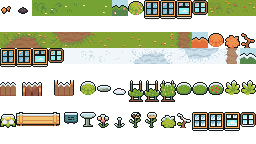
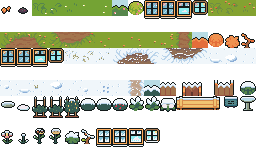
Draw a leak as puddles under one drip, and winter as snow
A wet room has a few small puddles under a damp mark on the north wall, with one drop falling there, in place of blue bars and drops across the whole floor. The winter garden is redrawn: drifts, tufts and prints on the snow, bare frosted beds, a pale path, thicker caps on fence and bushes; by night the open snow is lit dim blue-white. A leak is remembered at once and its want outweighs anything not begun.

diff --git a/view/src/px/still.ts b/view/src/px/still.ts
@@ -52,6 +52,10 @@ export function drawnOf(m: Made): Drawn {
 const PLAIN = { floor: 0xd8c39a, wall: 0xa98f6f, trim: 0x6d5a48 };
 const SIZES = [0.75, 1, 1.25];
 const counts = new Map<string, Texture>();   // the small numbers on chests and crates, made once each
+/** Water lying on a floor, typed: # its darker rim, o the water, + where the light catches it. A large one, a middling one, a small one. */
+const POOLS = [["...#####......", ".##ooooo###...", "#oo++ooooooo#.", "#o+ooooooooo##", ".#oooooooo+oo#", "..##ooooooo##.", "....######...."],
+               ["..####...", ".#o++o##.", "#ooooooo#", ".##ooo+#.", "...###..."], [".##..", "#+o#.", ".#oo#", "..##."]];
+const WATER: Record<string, number> = { "#": 0x3f78a8, o: 0x79b8ce, "+": 0xe4f4fa };
 /** The colour a named place in a room is tinted (SPEC-v3.3 §2.3): the same for the same name, in every room. */
 export const areaColor = (name: string) => hslInt(seeded(name)() * 360, 0.7, 0.62);
 
@@ -73,6 +77,7 @@ export class Still {
   band: Record<string, Rect> = { north: { x: OX, y: 2, w: FX * TILE, h: OY - 5 }, south: { x: OX, y: OY + FY * TILE + 2, w: FX * TILE, h: TILE - 4 },
                                  west: { x: 2, y: OY, w: OX - 4, h: FY * TILE }, east: { x: OX + FX * TILE + 2, y: OY, w: OX - 4, h: FY * TILE } };
   sun: number[] | null = null;  // the attic's shaft of sun, if there is one: where it falls
+  drip: number[] | null = null; // a leak's one drip, if water is coming in: its x, where it leaves the top of the wall, where it lands
   /** What the room's floor and walls actually paint, as one picture: light and dark fall only there, never on the page beyond the walls. */
   shape: HTMLCanvasElement | null = null;
   /** The part of the canvas the room is drawn in (the art may leave a margin): lettering stays inside it. */
@@ -94,7 +99,7 @@ export class Still {
     this.paint(room, false);   // SPEC-v3.5 §4.2: paint on the wall and the floor, under everything that stands there
     const blocked: Tile[] = [...(L.blocked ?? [])];
     for (const d of L.decor ?? []) this.decor(d.sprite, d.at, d.layer);
-    this.puddles(room);
+    this.puddles(snap, room, L);
     this.places(room);
     for (const [dir, to] of Object.entries(room.doors)) this.door(snap, room, dir, to, L.doors);
 
@@ -264,17 +269,25 @@ export class Still {
     this.scenery.push({ sprite: named, rect: { x: s.x, y: s.y, w: sz.w, h: sz.h } });
   }
 
-  /** Water standing on the floor after a leak. */
-  private puddles(room: RoomV) {
+  /** Water on the floor after a leak: a few small puddles gathered under the one place it drips from, and a damp mark
+   *  down the wall above them where it comes in. The same for the same room. */
+  private puddles(snap: Snap, room: RoomV, L: Layout) {
     if (!room.wet) return;
-    const g = new Graphics(), r = seeded(room.id + "wet");
-    for (let i = 0; i < 7; i++) {
-      const [x, y, w] = [OX + 6 + Math.floor(r() * (FX * TILE - 40)), OY + 8 + Math.floor(r() * (FY * TILE - 20)), 10 + Math.floor(r() * 16)];
-      g.rect(x + 2, y, w - 4, 1).rect(x, y + 1, w, 3).rect(x + 3, y + 4, w - 5, 1).fill({ color: 0x4f9fe0, alpha: 0.72 });
-      g.rect(x + 1, y + 4, 2, 1).rect(x + 3, y + 5, w - 5, 1).fill({ color: 0x2f6fb0, alpha: 0.6 });   // its darker near edge
-      g.rect(x + 3, y + 1, Math.floor(w / 3), 1).rect(x + w - 5, y + 2, 2, 1).fill({ color: 0xffffff, alpha: 0.8 });
+    const r = seeded(room.id + "wet"), n = (k: number) => Math.floor(r() * k), busy = [...(L.blocked ?? []), ...Object.values(L.fixtures ?? {}).filter((f) => !f.wall).map((f) => f.pos), ...Object.values(snap.door_tiles)];
+    let at: Tile = [4, 1];
+    for (let i = 0; i < 12; i++) {   // by the north wall, where nothing of the room's own stands and no door is
+      const t: Tile = [2 + n(8), 1];
+      if (!busy.some((b) => Math.abs(b[0] - t[0]) <= 1 && Math.abs(b[1] - t[1]) <= 1)) { at = t; break; }
+    }
+    const [x, y] = [corner(at)[0] + 8, corner(at)[1] + 8], side = r() < 0.5 ? -1 : 1, g = new Graphics(), top = this.band.north.y + 1;
+    const pools = [[0, 0, 0], [1, side * (12 + n(4)), 5 + n(3)], [2, -side * (9 + n(4)), 4 + n(4)], [2, side * (2 + n(5)), -7 - n(2)]];   // which, and how far from the drip
+    for (const [ch, color] of Object.entries(WATER)) {
+      for (const [k, dx, dy] of pools) POOLS[k].forEach((row, j) => [...row].forEach((c, i) => c === ch && g.rect(x + dx - (row.length >> 1) + (side < 0 ? row.length - 1 - i : i), y + dy - (POOLS[k].length >> 1) + j, 1, 1)));
+      g.fill({ color, alpha: 0.92 });
     }
     this.flat.addChild(g);
+    this.ground.addChild(new Graphics().rect(x - 2, top, 5, 2).rect(x - 1, top + 2, 3, 1).rect(x, top + 3, 1, OY - top - 5).fill({ color: 0x2d4f78, alpha: 0.4 }));
+    this.drip = [x, top + 3, y];
   }
 
   /** The places a room has grown (SPEC-v3.3 §2.3): a faint tint on their tiles, with a line round the whole of each. */

diff --git a/view/src/room.ts b/view/src/room.ts
@@ -15,7 +15,7 @@ import { canvasOf, has, kind, layout, loadArt, pick, size, tex } from "./px/asse
 import type { Layout } from "./px/assets";
 import { Labels } from "./px/bubbles";
 import type { Tag, Who } from "./px/bubbles";
-import { Fx } from "./px/fx";
+import { Fx, fxTexture } from "./px/fx";
 import { loadSeasons } from "./px/season";
 import { clamp, FX, FY, H, idx, inside, OX, OY, onFloor, tileAt, TILE, W } from "./px/geom";
 import { Marks } from "./px/marks";
@@ -575,7 +575,10 @@ export class Room {
     }
     if (now > n.drip && (room.wet || room.cold || (still.sun && snap.clock.phase !== "night"))) {
       n.drip = now + 240;
-      if (room.wet && Math.random() < 0.5) fx.spawn("drop", OX + Math.random() * FX * TILE, OY - 4, { vy: 60, g: 160, life: 500 + Math.random() * 500 });
+      if (room.wet && still.drip && Math.random() < 0.2) {   // a leak drips in one place: a drop down from the top of the wall, a ring where it lands in the puddle
+        const [x, from, to] = still.drip;
+        fx.fly(fxTexture("drop"), [x, from], [x, to], 480, 1, () => fx.spawn("rain.splash", x, to, { life: 340, tint: 0xcfeaf6 }));
+      }
       if (room.cold) fx.spawn("speck", OX, OY + Math.random() * FY * TILE, { vx: 34, life: 3000, sway: 2, tint: 0xdcecff, alpha: 0.7 });   // a draught: pale wisps crossing the floor
       if (still.sun && snap.clock.phase !== "night" && Math.random() < 0.4) fx.spawn("speck", still.sun[0] + (Math.random() - 0.5) * 24, still.sun[1] + (Math.random() - 0.5) * 16, { vy: -3, life: 2600, sway: 2, tint: 0xfff2c0, alpha: 0.7 });
     }

diff --git a/view/src/px/weather.ts b/view/src/px/weather.ts
@@ -95,6 +95,7 @@ export class Light {
     if (!night) a = mul(a, WEATHER[env.weather] ?? WHITE);
     if (!night && env.day && !env.lit) a = mix(a, DEEP, Math.min(1, env.day) * 0.6);   // a room with little daylight is dim by day too, unless a light is on
     a = mul(a, SEASON[env.season] ?? WHITE);
+    if (night && env.sky === "open" && env.season === "winter") a = mix(a, [180, 215, 255], 0.4);   // snow under the open sky gives the moon back: dim blue-white, its drifts still to be seen, never a flat dark wash
     if (!env.power) a = night || dusk ? mix(a, [8, 10, 34], 0.5) : mul(a, [226, 226, 238]);
     else if (env.lit && (night || dusk)) a = mix(a, [255, 236, 200], 0.14);
     if (env.cold) a = mul(a, [224, 238, 255]);

diff --git a/view/assets/own/src/seasons.py b/view/assets/own/src/seasons.py
@@ -15,7 +15,9 @@ from build import ASSETS, Sheet, pic, rgba
 
 P = lambda ch: rgba(art.PAL[ch])
 OUT = P("#")
-SNOW, SNOW_SHADE, ICE = (240, 246, 250, 255), (201, 222, 233, 255), P("l")
+SNOW, SNOW_SHADE, SNOW_DEEP, ICE = (240, 246, 250, 255), (188, 213, 235, 255), (140, 174, 214, 255), P("l")
+TUFT = [(150, 146, 104, 255), (186, 180, 138, 255)]       # dry grass standing through the snow, dark and light
+EVERGREEN = [P("s"), P("s"), P("g")]                      # the green of a bush in winter, dark to light
 RUST = [P("B"), P("r"), P("R"), P("q")]                   # the green of a bush gone to autumn, dark to light
 LITTER = [P("q"), P("q"), P("y"), P("R")]                 # leaves lying on the grass
 PINK, PINK_DARK, WHITE, YOLK = P("p"), P("X"), P("w"), P("Y")
@@ -69,24 +71,58 @@ def tones(im, test):
     return sorted({round(hsv(im.getpixel((x, y)))[2], 2) for y in range(im.size[1]) for x in range(im.size[0]) if test(im.getpixel((x, y)))})
 
 
-def snowed(im, name, trodden=False):
-    """Ground under snow: everything green is snow (its darker blades the snow's own shadows, thinned out). Dug earth
-    is a hollow in it, in the snow's shadow, its furrows a little darker; a `trodden` path stays bare, and frosted."""
+# What lies on open snow, typed: w where the light catches a crest, s its shadow, d the deep of the shadow, t and T dry
+# grass. Shadows fall down and to the right, as they do under everything else in the pack.
+ON_SNOW = {"ripple": ["..wwwwwww...", "ss.......ss.", ".sssssssss.s", "...sdddds..."],
+           "drift": ["...wwwwww...", ".wwwwwwwwws.", "wwwwwwwwwwss", ".wwwwwwwwssd", "..sswwwsssdd", "...sssssddd.", ".....dddd..."],
+           "bump": [".www..", "w...s.", "..ssd.", ".sdd.."],
+           "tuft": ["T..t.", ".t.T.", ".tTt.", ".dss."],
+           "prints": ["dd......", "ds..dd..", "....ds..", "........", "dd......", "ds..dd..", "....ds.."]}
+INK = {"w": (255, 255, 255, 255), "s": SNOW_SHADE, "d": SNOW_DEEP, "t": TUFT[0], "T": TUFT[1]}
+
+
+def snowed(im, name, lay=(), trodden=False):
+    """Ground under snow: everything green is snow, with a grain to it and what `lay` names lying on it (ON_SNOW). The
+    darker blades of the grass are dry tufts standing through; beside earth they are the snow's edge, in shadow. Dug
+    earth is bare and frozen, frost along its furrows; a `trodden` path is pale, the snow half walked into it."""
     r = random.Random(name)
+    w, h = im.size
     lightest = (tones(im, green) or [1])[-1]
     earth = tones(im, lambda p: p[3] > 0 and p != OUT and not green(p))
 
     def fn(p, x, y):
         if green(p):
-            return SNOW if hsv(p)[2] >= lightest - 0.08 or r.random() < 0.45 else SNOW_SHADE
+            return SNOW if hsv(p)[2] >= lightest - 0.08 else SNOW_SHADE if earth else r.choice(TUFT + [SNOW_SHADE, SNOW])
         if p[3] and p != OUT:
-            return mix(p, SNOW, 0.18) if trodden else SNOW_SHADE if round(hsv(p)[2], 2) == earth[-1] else mix(SNOW_SHADE, P("u"), 0.18)
+            furrow = round(hsv(p)[2], 2) != earth[-1]
+            if trodden:
+                return SNOW if r.random() < 0.1 else mix(p, SNOW, 0.5 if furrow else 0.35)
+            crest = not furrow and y + 1 < h and round(hsv(im.getpixel((x, y + 1)))[2], 2) == earth[0] and len(earth) > 1
+            return SNOW if crest and r.random() < 0.75 else SNOW_SHADE if r.random() < 0.05 else mix(p, P("u"), 0.38 if furrow else 0.2)
         return p
-    return each(im, fn)
+    out = each(im, fn)
+    clear = lambda x, y: 0 <= x < w and 0 <= y < h and out.getpixel((x, y)) == SNOW
+    for what in lay:
+        rows = ON_SNOW[what]
+        for _ in range(12):   # (a few tries at a place where it lies on nothing but snow, and clear of the tile's edge: the next tile has its own)
+            x0, y0 = r.randrange(1, w - len(rows[0])), r.randrange(1, h - len(rows))
+            if all(clear(x0 + i, y0 + j) for j in range(-1, len(rows) + 1) for i in range(-1, len(rows[0]) + 1)):
+                for j, row in enumerate(rows):
+                    for i, ch in enumerate(row):
+                        if ch != ".":
+                            out.putpixel((x0 + i, y0 + j), INK[ch])
+                break
+    for _ in range(5 if not earth else 0):   # the grain of it: a speck of shadow here and there, each with a glint beside it
+        x, y = r.randrange(w - 1), r.randrange(h)
+        if clear(x, y) and clear(x + 1, y):
+            out.putpixel((x, y), SNOW_SHADE)
+            out.putpixel((x + 1, y), INK["w"])
+    return out
 
 
-def capped(im, deep=2, body=lambda p: p[3] > 0):
-    """A thing with snow lying on it: on each column, the first pixels under its top outline are snow."""
+def capped(im, deep=2, body=lambda p: p[3] > 0, share=0.0):
+    """A thing with snow lying on it: on each column, the first pixels under its top outline are snow, the last of them
+    in the snow's shadow. `share`: at least this much of the column's height (a bush under a cap of it)."""
     out = im.copy()
     w, h = im.size
     for x in range(w):
@@ -94,9 +130,10 @@ def capped(im, deep=2, body=lambda p: p[3] > 0):
         if top is None:
             continue
         y = top + 1 if im.getpixel((x, top)) == OUT else top
-        for i in range(deep):
+        n = max(deep, round(sum(1 for i in range(y, h) if im.getpixel((x, i))[3]) * share))
+        for i in range(n):
             if y + i < h and im.getpixel((x, y + i)) != OUT and im.getpixel((x, y + i))[3]:
-                out.putpixel((x, y + i), SNOW if i < deep - 1 or deep == 1 else SNOW_SHADE)
+                out.putpixel((x, y + i), SNOW if i < n - 1 or n == 1 else SNOW_SHADE)
     return out
 
 
@@ -107,10 +144,10 @@ def frozen(im):
 
 # ---- autumn: rust and fallen leaves ----
 
-def rusted(im):
-    """What was green has turned: the same shading, in the pack's oranges."""
+def turned(im, to=RUST):
+    """What was green has turned: the same shading, in the pack's oranges (or, `to`, a winter's dull green)."""
     vs = tones(im, green)   # (by rank, not by how far apart they are: a bush's greens are close, and must not all come out one orange)
-    return each(im, lambda p, x, y: RUST[round((vs.index(round(hsv(p)[2], 2)) + 1) / len(vs) * (len(RUST) - 1))] if green(p) else p)
+    return each(im, lambda p, x, y: to[round((vs.index(round(hsv(p)[2], 2)) + 1) / len(vs) * (len(to) - 1))] if green(p) else p)
 
 
 def littered(im, name, n=5):
@@ -225,11 +262,11 @@ PLAN = {
     "autumn": {"garden": dict({k: "litter" for k in GRASS + EARTH}, **{"tile.grass": ["litter", "leaf", "litter", "leaf", "leaves"], "tile.path": "leaf",
                                                                      "tile.sky.hedge": "rust", "decor.bush": "rust", "grows.leaf*": "rust"}),
                "*": WINDOWS},
-    "winter": {"garden": dict({k: "snow" for k in ["tile.grass"] + GRASS + EARTH}, **{"tile.path": "trodden",
-                   "tile.sky.hedge": "hedge", "tile.fence": "cap", "tile.fence.nw": "cap", "tile.fence.ne": "cap", "tile.fence.sw": "cap", "tile.fence.se": "cap",
-                   "decor.bush": "cap", "decor.stepping stone": "cap", "decor.sprout": None, "decor.flower.sun": "mound", "decor.flower.red": "mound", "decor.flower.white": "mound",
-                   "fix.bean row*": "cap", "fix.berry bush*": "cap", "fix.herb patch*": "cap", "fix.old bench": "cap", "fix.tool box": "cap", "fix.bird bath": "frozen",
-                   "grows.petal*": "cap", "grows.seed*": "cap", "grows.leaf*": "cap"}),
+    "winter": {"garden": dict({k: "snow" for k in GRASS + EARTH}, **{"tile.grass": ["ripple", "drift", "snow", "bump", "ripple", "tuft", "drift", "snow", "bump", "prints", "snow"], "tile.path": "trodden",
+                   "tile.sky.hedge": "hedge", "tile.fence": "fence", "tile.fence.nw": "fence", "tile.fence.ne": "fence", "tile.fence.sw": "fence", "tile.fence.se": "fence",
+                   "decor.bush": "bush", "decor.stepping stone": "cap", "decor.sprout": None, "decor.flower.sun": "mound", "decor.flower.red": "mound", "decor.flower.white": "mound",
+                   "fix.bean row*": "bare", "fix.berry bush*": "bush", "fix.herb patch*": "bush", "fix.old bench": "cap", "fix.tool box": "cap", "fix.bird bath": "frozen",
+                   "grows.petal*": "bare", "grows.seed*": "bare", "grows.leaf": "bush", "grows.leaf.bare": "cap"}),
                "*": WINDOWS},
 }
 
@@ -258,8 +295,11 @@ def mound():
 
 def draw(name, how, season, seed):
     im = source(name)
-    return {"snow": lambda: snowed(im, seed), "trodden": lambda: snowed(im, seed, True), "cap": lambda: capped(im), "frozen": lambda: frozen(im), "mound": mound,
-            "hedge": lambda: capped(im, 3, lambda p: green(p) or p == OUT), "rust": lambda: rusted(im),
+    if how in ON_SNOW:
+        return snowed(im, seed, [how])
+    return {"snow": lambda: snowed(im, seed), "trodden": lambda: snowed(im, seed, trodden=True), "cap": lambda: capped(im), "frozen": lambda: frozen(im), "mound": mound,
+            "hedge": lambda: capped(turned(im, EVERGREEN), 4, lambda p: green(p) or p == OUT), "rust": lambda: turned(im),
+            "bush": lambda: capped(turned(im, EVERGREEN), 2, share=0.42), "fence": lambda: capped(im, 3), "bare": lambda: capped(turned(im, EVERGREEN)),
             "leaf": lambda: littered(im, seed, 1), "litter": lambda: littered(im, seed, 3), "leaves": lambda: littered(im, seed, 6),
             "daisy": lambda: blossomed(im, seed, 1, small=True), "daisies": lambda: blossomed(im, seed, 2, small=True),
             "blossom": lambda: blossomed(im, seed, 5), "window": lambda: window(im, season)}[how]()

diff --git a/engine/check_build.py b/engine/check_build.py
@@ -212,6 +212,8 @@ async def main():
         assert shop["wet_until"] <= h["tick"] and any(m["kind"] == "held" for m in h["moments"]), "a roof patch keeps the leak out"
         director.leak(h, cfg, cellar)
         assert cellar["wet_until"] > h["tick"], "... of its own room only"
+        c, others = cand(h, cfg, pet, "build:%s|roof patch" % cellar["id"]), [x["weight"] for x in wants.candidates(h, cfg, pet) if x["what"] == "build" and x.get("project") != "roof patch" and x["weight"] < S["started"]]
+        assert c and "you want to stop the leak" in c["text"] and c["weight"] * 0.6 > max(others) * 1.4, "a leak gives the want to stop it at once, and it comes before anything not yet begun: %s" % c
         cellar["wet_until"] = LONG_AGO
         assert not build.proof(h, cfg, shop, "draught")
         put_up(h, cfg, pet, shop, "draught curtain")

diff --git a/engine/director.py b/engine/director.py
@@ -243,6 +243,7 @@ def leak(house, cfg, room):
         return
     r, E = rnd(house, "leak", house["tick"]), cfg["house"]["events"]
     room["wet_until"] = house["tick"] + hours(cfg, r.uniform(*E["leak_hours"]))
+    room["leaked"] = house["tick"]   # (so the want to stop it can come at once, not at the next hour: build.py's "leaks")
     for n, o in things.made(room).items():   # the water shifts what is lying about
         if not things.prop(cfg, o).get("fixed") and r.random() < 0.5:
             o["pos"] = free_tile(house, cfg, room, [r.randrange(cfg["W"]), r.randrange(cfg["H"])], n)
